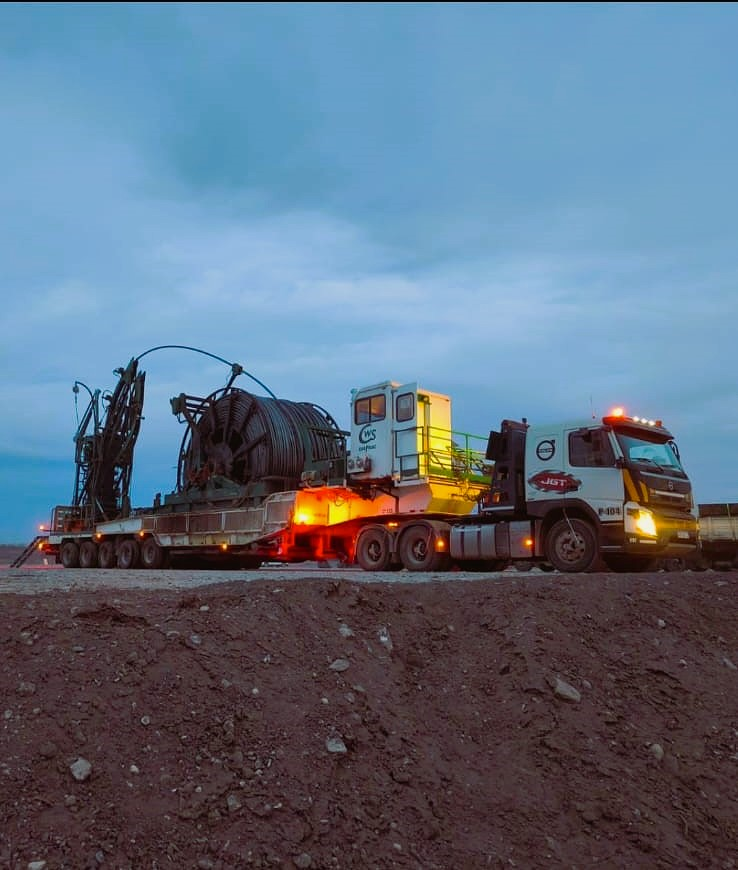
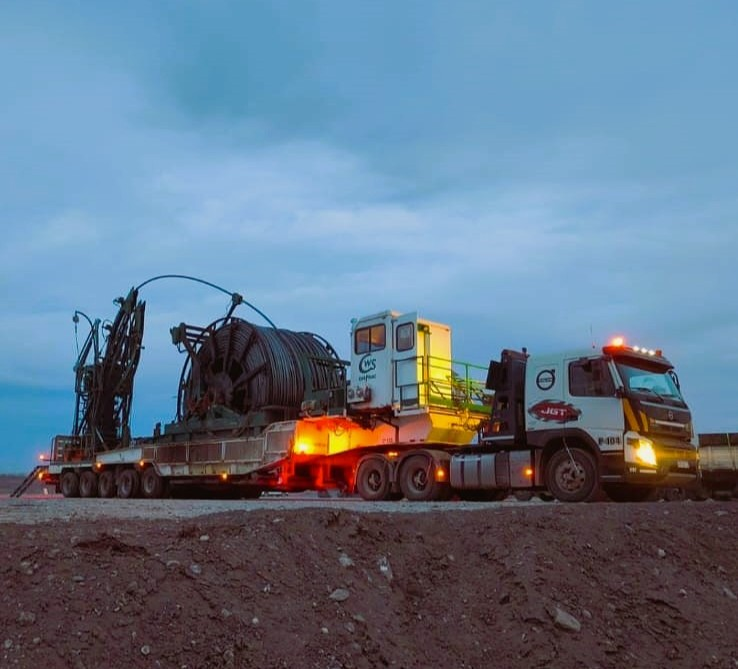
sdfsfd

diff --git a/css/main.css b/css/main.css
@@ -821,11 +821,22 @@ label[for="human-check"] { margin: 0; color: var(--color-text); font-weight: 500
 }
 
 /* Ajuste para imágenes dentro de contenedores */
+
 .responsive-image {
-    max-width: 100%;
-    height: auto;
-    object-fit: cover;
-    display: block;
+        max-width: 100%;
+        height: auto;
+        object-fit: cover;
+        display: block;
+}
+
+@media (min-width: 901px) {
+    .container > .responsive-image {
+        width: 90%;
+        max-width: 90%;
+        margin-left: auto;
+        margin-right: auto;
+        display: block;
+    }
 }
 
 /* Imagen que se extiende full-bleed (ocupa todo el ancho de la ventana) */
